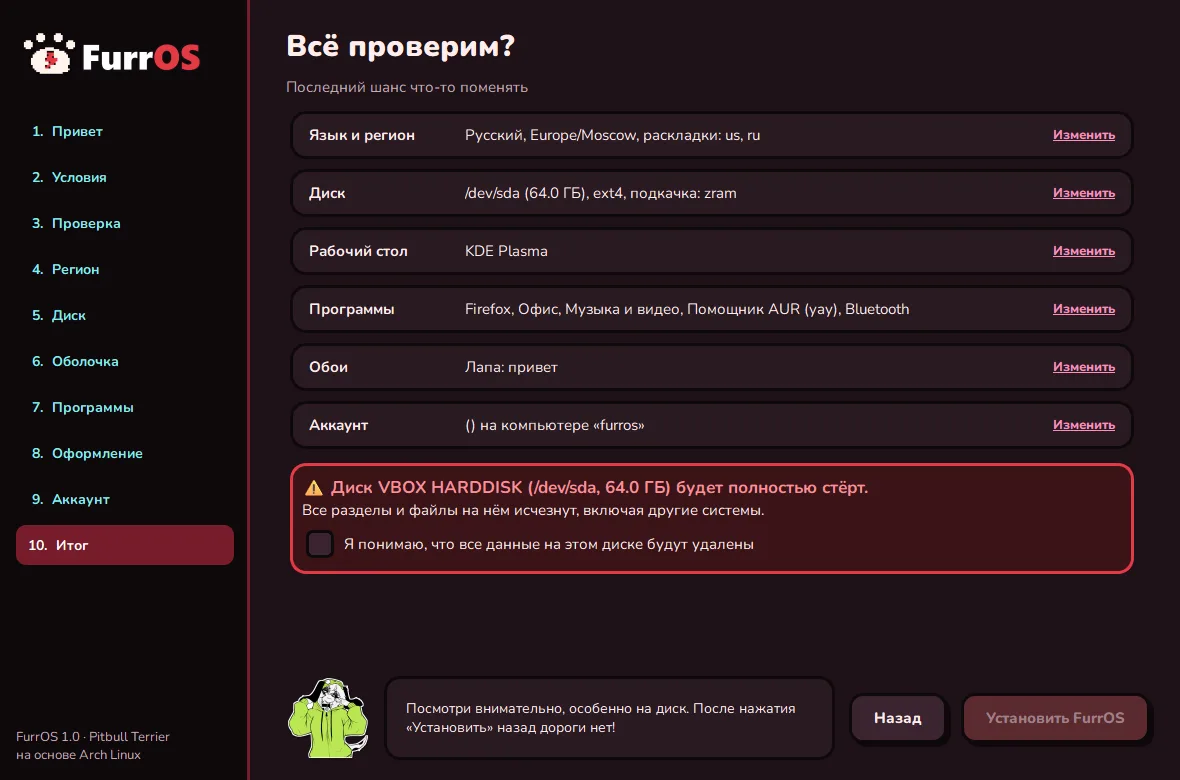
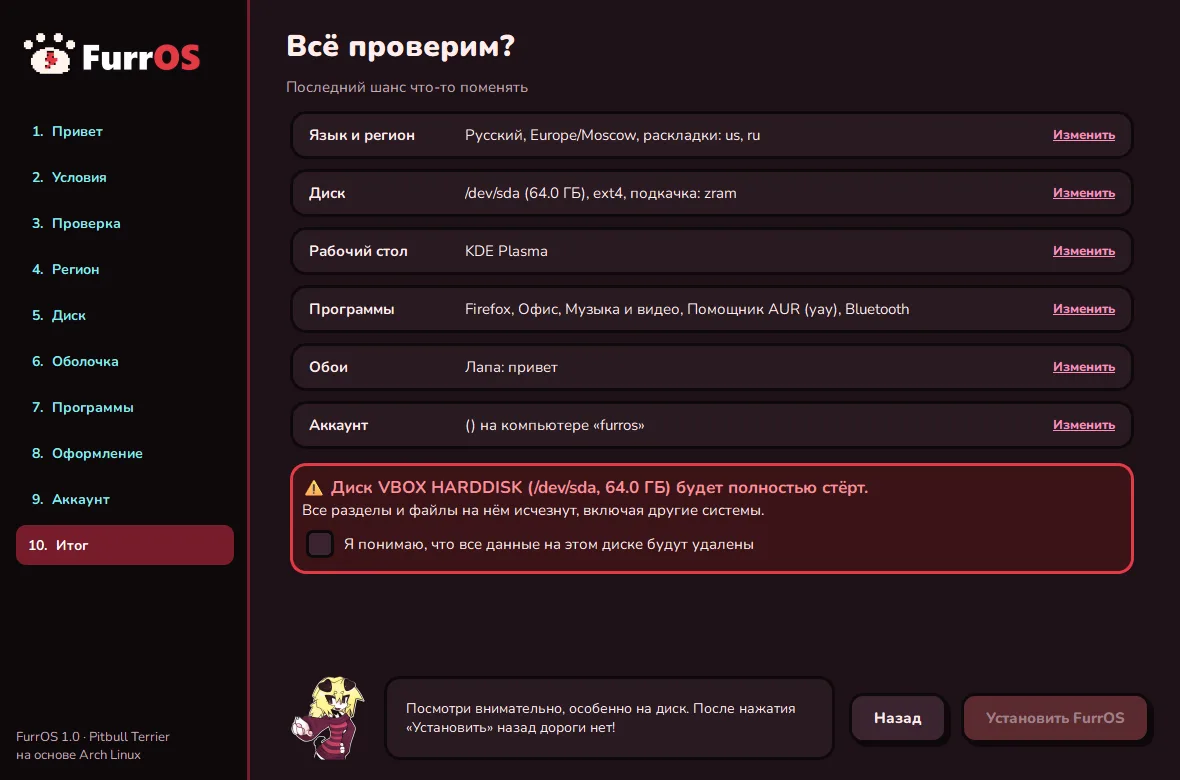
Mascot is now Taroyadda; Lapa stays on wallpapers and in Lapa's School. New installer screenshots

Changed region(s): [[0.2441, 0.8615, 0.3356, 0.9846]]

diff --git a/README.md b/README.md
@@ -14,7 +14,7 @@
 [![YouTube](https://img.shields.io/badge/YouTube-@FurrOSLinux-E23A44?style=for-the-badge&logo=youtube&logoColor=white)](https://www.youtube.com/@FurrOSLinux)
 [![Сайт](https://img.shields.io/badge/сайт-furros.xyz-7FF0F0?style=for-the-badge)](https://furros.xyz/)
 
-17 рабочих столов на выбор · установщик с Лапой · Школа Лапы · живые обои · без слежки и телеметрии
+17 рабочих столов на выбор · установщик с Тароядой · Школа Лапы · живые обои · без слежки и телеметрии
 
 <img src="docs/hero-kde.webp" alt="Рабочий стол FurrOS с KDE Plasma" width="760" />
 
@@ -39,7 +39,7 @@
 ## Что будет в FurrOS
 
 - **17 рабочих столов** — KDE, GNOME, COSMIC, Hyprland, Niri, Sway, i3 и другие. Все в едином стиле FurrOS.
-- **Установщик с Лапой** — графическая установка на 4 языках (RU, EN, PL, ES). Лапа подсказывает на каждом шаге.
+- **Установщик с Тароядой** — графическая установка на 4 языках (RU, EN, PL, ES). Тарояда подсказывает на каждом шаге.
 - **Школа Лапы** — встроенное обучение: 14 глав, тесты и терминал-песочница. Для тех, кто первый раз на Linux.
 - **Живые обои** — анимированные обои на рабочем столе в KDE, Hyprland, Sway и Niri.
 - **На основе Arch** — rolling-release, свежие версии программ, тысячи пакетов из репозиториев и AUR.
@@ -114,7 +114,7 @@
 
 ## Арт и права
 
-FurrOS — некоммерческий фанатский проект. **Лапа** (далматинка) и другие персонажи, а также арт
+FurrOS — некоммерческий фанатский проект. Маскот **Тарояда**, **Лапа** (далматинка) и другие персонажи, а также арт
 на скриншотах рабочих столов и обоев принадлежат их авторам и используются в ознакомительных целях.
 
 🎨 Художники, чьи арты используются в FurrOS: **lapalilpup**, **taroyadda**, **sashley**, **crispytyph**. Спасибо! 🐾

diff --git a/README.es.md b/README.es.md
@@ -14,7 +14,7 @@
 [![YouTube](https://img.shields.io/badge/YouTube-@FurrOSLinux-E23A44?style=for-the-badge&logo=youtube&logoColor=white)](https://www.youtube.com/@FurrOSLinux)
 [![Web](https://img.shields.io/badge/web-furros.xyz-7FF0F0?style=for-the-badge)](https://furros.xyz/)
 
-17 escritorios para elegir · instalador con Lapa · la Escuela de Lapa · fondos animados · sin rastreo ni telemetría
+17 escritorios para elegir · instalador con Taroyadda · la Escuela de Lapa · fondos animados · sin rastreo ni telemetría
 
 <img src="docs/hero-kde.webp" alt="Escritorio de FurrOS con KDE Plasma" width="760" />
 
@@ -39,7 +39,7 @@ Para enterarte el primero cuando salga:
 ## Qué trae FurrOS
 
 - **17 escritorios** — KDE, GNOME, COSMIC, Hyprland, Niri, Sway, i3 y más. Todos con el mismo estilo FurrOS.
-- **Instalador con Lapa** — instalación gráfica en 4 idiomas (RU, EN, PL, ES). Lapa te ayuda en cada paso.
+- **Instalador con Taroyadda** — instalación gráfica en 4 idiomas (RU, EN, PL, ES). Taroyadda te ayuda en cada paso.
 - **La Escuela de Lapa** — tutorial integrado: 14 capítulos, cuestionarios y un terminal sandbox. Para quien usa Linux por primera vez.
 - **Fondos animados** — fondos en movimiento directamente en el escritorio en KDE, Hyprland, Sway y Niri.
 - **Basado en Arch** — rolling release, software actualizado, miles de paquetes de los repositorios y del AUR.
@@ -114,7 +114,7 @@ Cada uno tiene el estilo FurrOS justo después de instalar.
 
 ## Arte y derechos
 
-FurrOS es un proyecto de fans sin fines comerciales. **Lapa** (una dálmata) y los demás personajes, así como el arte
+FurrOS es un proyecto de fans sin fines comerciales. La mascota **Taroyadda**, **Lapa** (una dálmata) y los demás personajes, así como el arte
 en las capturas de escritorios y fondos, pertenecen a sus autores y se muestran solo a modo ilustrativo.
 
 🎨 Artistas cuyo arte se usa en FurrOS: **lapalilpup**, **taroyadda**, **sashley**, **crispytyph**. ¡Gracias! 🐾

diff --git a/README.en.md b/README.en.md
@@ -14,7 +14,7 @@
 [![YouTube](https://img.shields.io/badge/YouTube-@FurrOSLinux-E23A44?style=for-the-badge&logo=youtube&logoColor=white)](https://www.youtube.com/@FurrOSLinux)
 [![Website](https://img.shields.io/badge/website-furros.xyz-7FF0F0?style=for-the-badge)](https://furros.xyz/)
 
-17 desktops to choose from · an installer with Lapa · Lapa's School · live wallpapers · no tracking, no telemetry
+17 desktops to choose from · an installer with Taroyadda · Lapa's School · live wallpapers · no tracking, no telemetry
 
 <img src="docs/hero-kde.webp" alt="FurrOS desktop with KDE Plasma" width="760" />
 
@@ -39,7 +39,7 @@ Want to know first when it's out:
 ## What's in FurrOS
 
 - **17 desktops** — KDE, GNOME, COSMIC, Hyprland, Niri, Sway, i3 and more. All in one FurrOS style.
-- **Installer with Lapa** — graphical install in 4 languages (RU, EN, PL, ES). Lapa gives tips at every step.
+- **Installer with Taroyadda** — graphical install in 4 languages (RU, EN, PL, ES). Taroyadda gives tips at every step.
 - **Lapa's School** — built-in tutorial: 14 chapters, quizzes and a sandbox terminal. For anyone new to Linux.
 - **Live wallpapers** — animated wallpapers right on the desktop in KDE, Hyprland, Sway and Niri.
 - **Based on Arch** — rolling release, fresh software, thousands of packages from the repositories and the AUR.
@@ -114,7 +114,7 @@ Each one is styled as FurrOS right after installation.
 
 ## Art and rights
 
-FurrOS is a non-commercial fan project. **Lapa** (a dalmatian) and the other characters, as well as the art
+FurrOS is a non-commercial fan project. The mascot **Taroyadda**, **Lapa** (a dalmatian) and the other characters, as well as the art
 in the desktop and wallpaper screenshots, belong to their authors and are shown for illustration only.
 
 🎨 Artists whose art is used in FurrOS: **lapalilpup**, **taroyadda**, **sashley**, **crispytyph**. Thank you! 🐾

diff --git a/README.pl.md b/README.pl.md
@@ -14,7 +14,7 @@
 [![YouTube](https://img.shields.io/badge/YouTube-@FurrOSLinux-E23A44?style=for-the-badge&logo=youtube&logoColor=white)](https://www.youtube.com/@FurrOSLinux)
 [![Strona](https://img.shields.io/badge/strona-furros.xyz-7FF0F0?style=for-the-badge)](https://furros.xyz/)
 
-17 pulpitów do wyboru · instalator z Lapą · Szkoła Lapy · animowane tapety · bez śledzenia i telemetrii
+17 pulpitów do wyboru · instalator z Taroyaddą · Szkoła Lapy · animowane tapety · bez śledzenia i telemetrii
 
 <img src="docs/hero-kde.webp" alt="Pulpit FurrOS z KDE Plasma" width="760" />
 
@@ -39,7 +39,7 @@ Chcesz dowiedzieć się pierwszy o premierze:
 ## Co jest w FurrOS
 
 - **17 pulpitów** — KDE, GNOME, COSMIC, Hyprland, Niri, Sway, i3 i inne. Wszystkie w jednym stylu FurrOS.
-- **Instalator z Lapą** — graficzna instalacja w 4 językach (RU, EN, PL, ES). Lapa podpowiada na każdym kroku.
+- **Instalator z Taroyaddą** — graficzna instalacja w 4 językach (RU, EN, PL, ES). Taroyadda podpowiada na każdym kroku.
 - **Szkoła Lapy** — wbudowany samouczek: 14 rozdziałów, quizy i terminal-piaskownica. Dla tych, którzy pierwszy raz są na Linuksie.
 - **Animowane tapety** — ruchome tapety prosto na pulpicie w KDE, Hyprland, Sway i Niri.
 - **Oparty na Archu** — rolling release, świeże wersje programów, tysiące pakietów z repozytoriów i AUR.
@@ -114,7 +114,7 @@ Każdy ma styl FurrOS od razu po instalacji.
 
 ## Grafika i prawa
 
-FurrOS to niekomercyjny projekt fanowski. **Lapa** (dalmatynka) i inne postacie, a także grafiki
+FurrOS to niekomercyjny projekt fanowski. Maskotka **Taroyadda**, **Lapa** (dalmatynka) i inne postacie, a także grafiki
 na zrzutach pulpitów i tapet należą do ich autorów i są pokazane wyłącznie poglądowo.
 
 🎨 Artyści, których prace są użyte w FurrOS: **lapalilpup**, **taroyadda**, **sashley**, **crispytyph**. Dziękujemy! 🐾
